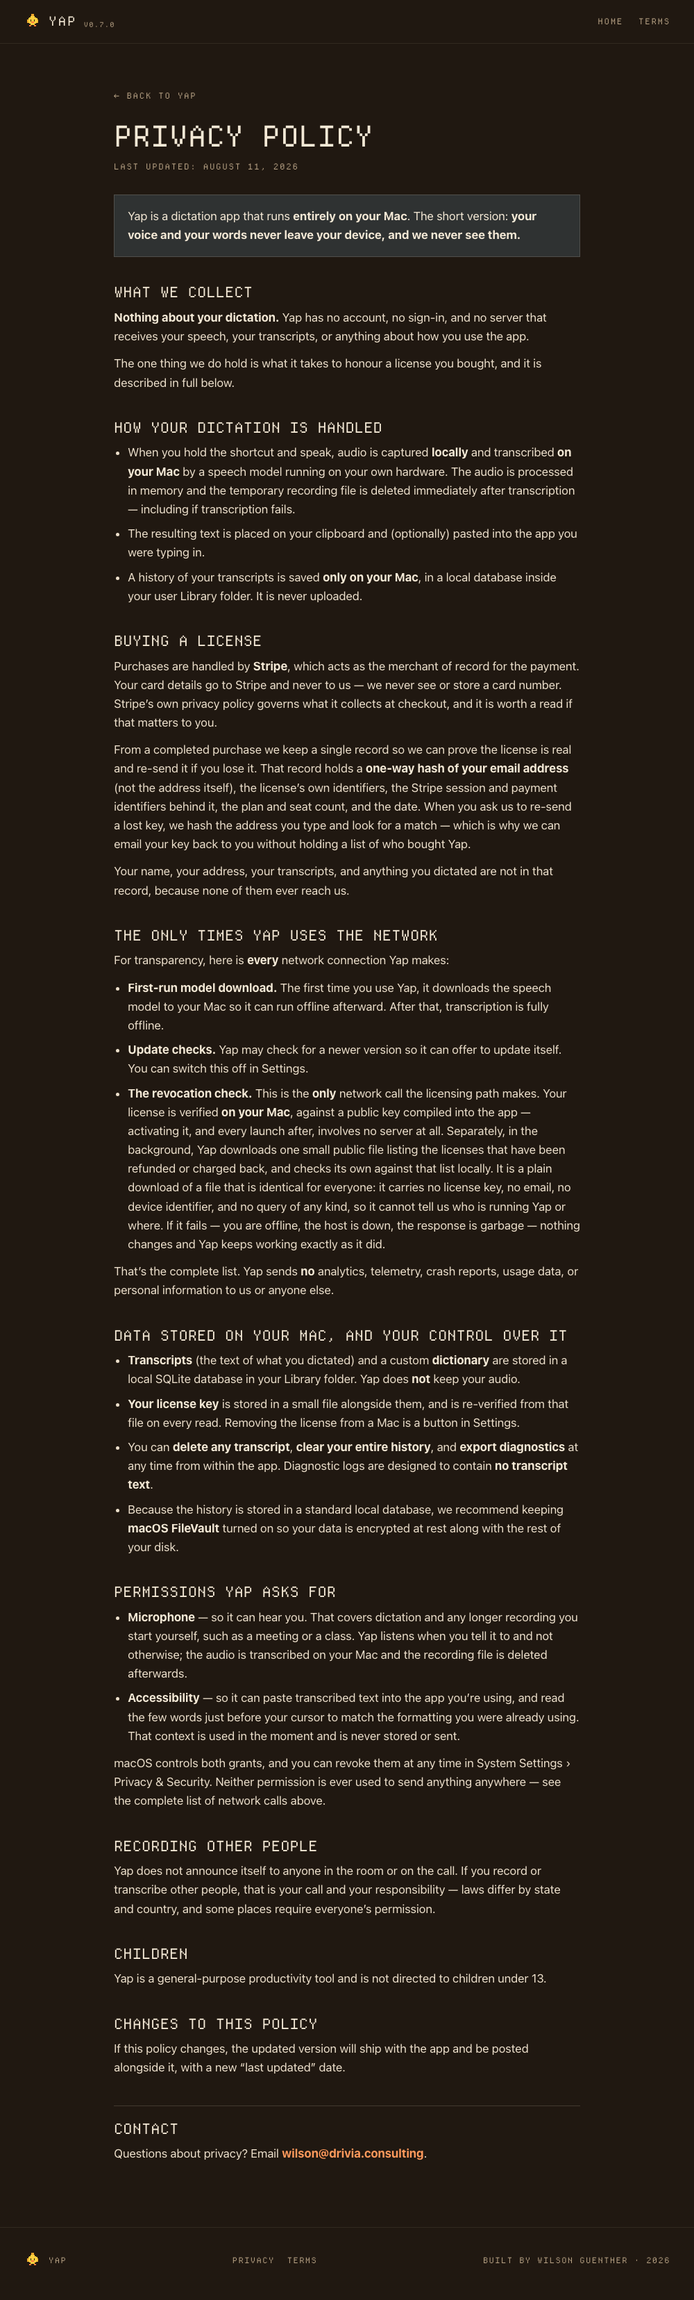
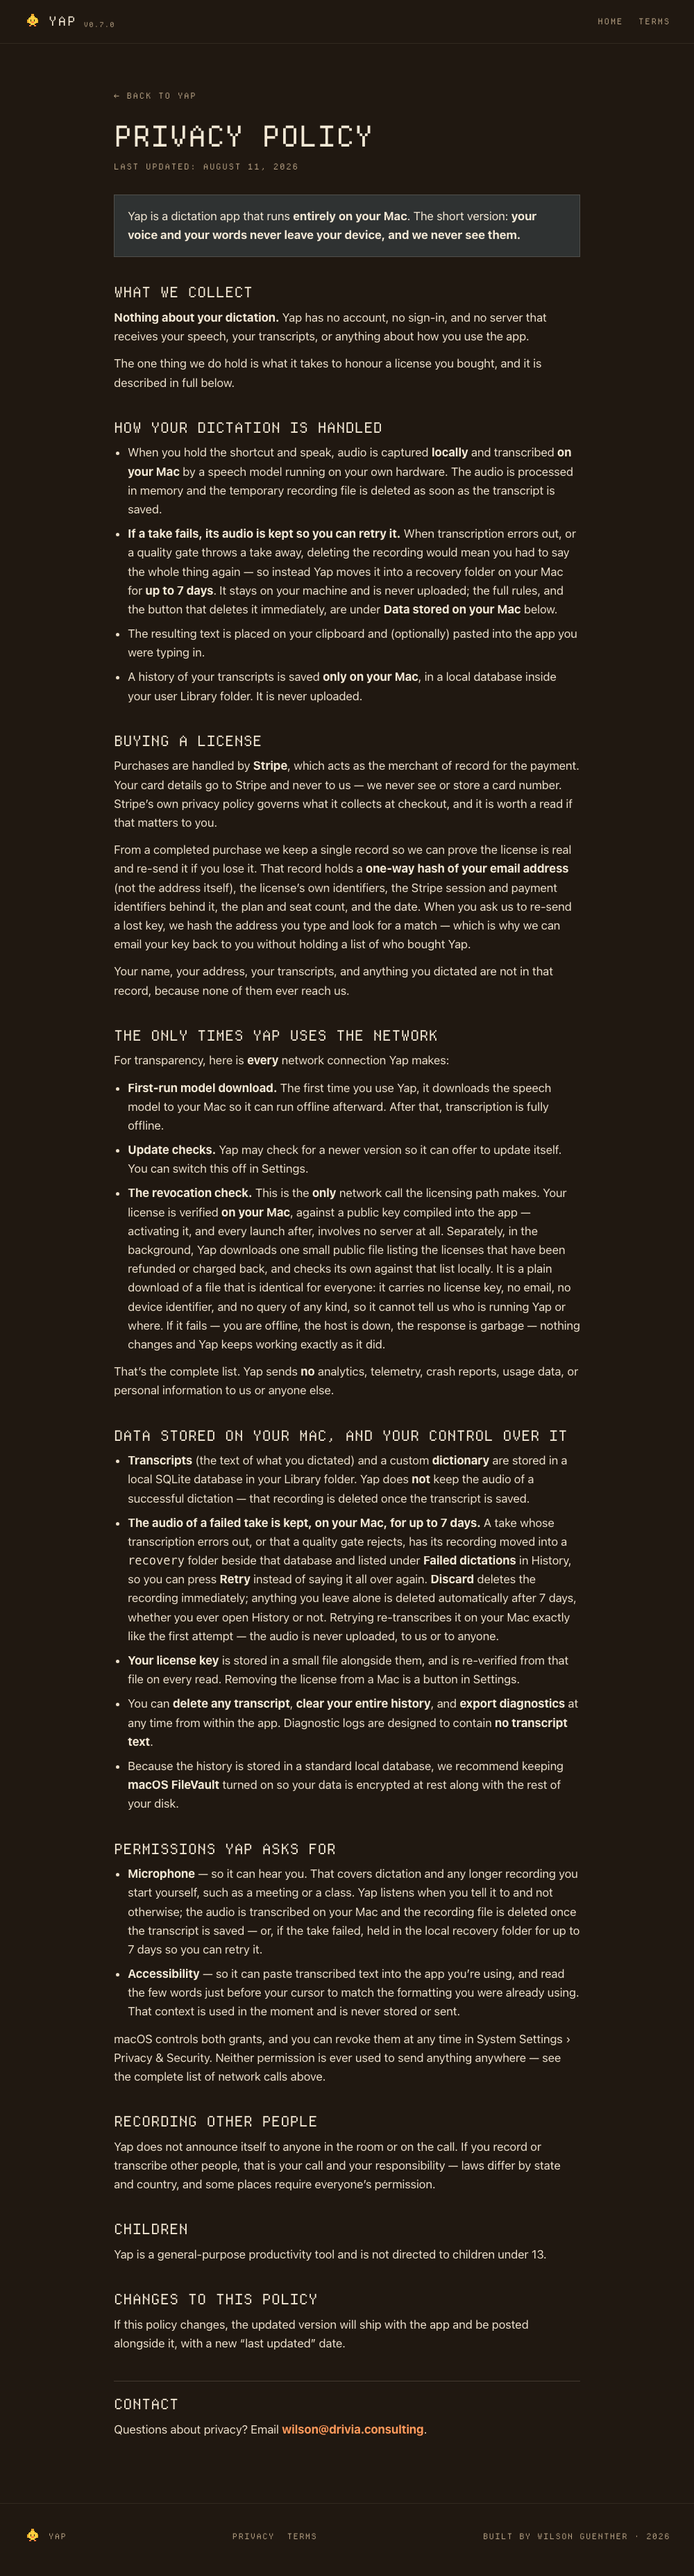
fix(yap): YP5 review — close the Apache grant on the paid code, and stop the privacy policy denying the recovery window
Two blocking findings from the YP5 review, both about a legal document
that now backs a product taking money.

1. The Apache carve-out was keyed to a version string the tree still
   claimed. TERMS said "every version up to and including 0.7.0 stays
   under Apache 2.0", while tauri.conf.json, Cargo.toml and package.json
   all still read 0.7.0 on a PUBLIC repo whose HEAD ships license.rs and
   the YP2/YP3 gate next to an untouched Apache LICENSE file. Anyone
   cloning HEAD received the payment gate under Apache 2.0, and the new
   TERMS text affirmatively confirmed that right to them — the exact
   grant this PR existed to remove.

   The in-repo version now reads 0.8.0 (tauri.conf.json, src-tauri and
   yap-polish Cargo.toml, package.json, Cargo.lock), so a clone can no
   longer self-identify as the last open-source release. The carve-out
   names the shipped ARTIFACT instead of a number: the v0.7.0 release
   (tag v0.7.0, commit 8c8740f) and every release before it, which
   git ls-tree confirms contained no license.rs. NOTICE and README now
   carry the same cut-off, so the Apache file is never met alone —
   README also stopped claiming MIT over an Apache LICENSE.

2. PRIVACY said, three times, that Yap never keeps audio. It does.
   YV52/YV67 keep_failed_take() MOVES the wav into data_dir()/recovery/
   whenever transcription fails or a gate rejects a take that had audio,
   and it survives for FAILED_TAKE_RETENTION_DAYS = 7. The feature is
[…]

Changed region(s): [[0.155, 0.0311, 0.837, 0.9644]]

diff --git a/site/dist/privacy.html b/site/dist/privacy.html
@@ -32,7 +32,8 @@
 
   <h2>How your dictation is handled</h2>
   <ul>
-    <li>When you hold the shortcut and speak, audio is captured <strong>locally</strong> and transcribed <strong>on your Mac</strong> by a speech model running on your own hardware. The audio is processed in memory and the temporary recording file is deleted immediately after transcription — including if transcription fails.</li>
+    <li>When you hold the shortcut and speak, audio is captured <strong>locally</strong> and transcribed <strong>on your Mac</strong> by a speech model running on your own hardware. The audio is processed in memory and the temporary recording file is deleted as soon as the transcript is saved.</li>
+    <li><strong>If a take fails, its audio is kept so you can retry it.</strong> When transcription errors out, or a quality gate throws a take away, deleting the recording would mean you had to say the whole thing again &mdash; so instead Yap moves it into a recovery folder on your Mac for <strong>up to 7 days</strong>. It stays on your machine and is never uploaded; the full rules, and the button that deletes it immediately, are under <strong>Data stored on your Mac</strong> below.</li>
     <li>The resulting text is placed on your clipboard and (optionally) pasted into the app you were typing in.</li>
     <li>A history of your transcripts is saved <strong>only on your Mac</strong>, in a local database inside your user Library folder. It is never uploaded.</li>
   </ul>
@@ -53,7 +54,8 @@
 
   <h2>Data stored on your Mac, and your control over it</h2>
   <ul>
-    <li><strong>Transcripts</strong> (the text of what you dictated) and a custom <strong>dictionary</strong> are stored in a local SQLite database in your Library folder. Yap does <strong>not</strong> keep your audio.</li>
+    <li><strong>Transcripts</strong> (the text of what you dictated) and a custom <strong>dictionary</strong> are stored in a local SQLite database in your Library folder. Yap does <strong>not</strong> keep the audio of a successful dictation &mdash; that recording is deleted once the transcript is saved.</li>
+    <li><strong>The audio of a failed take is kept, on your Mac, for up to 7 days.</strong> A take whose transcription errors out, or that a quality gate rejects, has its recording moved into a <code>recovery</code> folder beside that database and listed under <strong>Failed dictations</strong> in History, so you can press <strong>Retry</strong> instead of saying it all over again. <strong>Discard</strong> deletes the recording immediately; anything you leave alone is deleted automatically after 7 days, whether you ever open History or not. Retrying re-transcribes it on your Mac exactly like the first attempt &mdash; the audio is never uploaded, to us or to anyone.</li>
     <li><strong>Your license key</strong> is stored in a small file alongside them, and is re-verified from that file on every read. Removing the license from a Mac is a button in Settings.</li>
     <li>You can <strong>delete any transcript</strong>, <strong>clear your entire history</strong>, and <strong>export diagnostics</strong> at any time from within the app. Diagnostic logs are designed to contain <strong>no transcript text</strong>.</li>
     <li>Because the history is stored in a standard local database, we recommend keeping <strong>macOS FileVault</strong> turned on so your data is encrypted at rest along with the rest of your disk.</li>
@@ -61,7 +63,7 @@
 
   <h2>Permissions Yap asks for</h2>
   <ul>
-    <li><strong>Microphone</strong> — so it can hear you. That covers dictation and any longer recording you start yourself, such as a meeting or a class. Yap listens when you tell it to and not otherwise; the audio is transcribed on your Mac and the recording file is deleted afterwards.</li>
+    <li><strong>Microphone</strong> — so it can hear you. That covers dictation and any longer recording you start yourself, such as a meeting or a class. Yap listens when you tell it to and not otherwise; the audio is transcribed on your Mac and the recording file is deleted once the transcript is saved &mdash; or, if the take failed, held in the local recovery folder for up to 7 days so you can retry it.</li>
     <li><strong>Accessibility</strong> — so it can paste transcribed text into the app you&rsquo;re using, and read the few words just before your cursor to match the formatting you were already using. That context is used in the moment and is never stored or sent.</li>
   </ul>
   <p>macOS controls both grants, and you can revoke them at any time in System Settings › Privacy &amp; Security. Neither permission is ever used to send anything anywhere — see the complete list of network calls above.</p>

diff --git a/site/dist/terms.html b/site/dist/terms.html
@@ -39,8 +39,8 @@
   <p>If Yap is not for you, email us within <strong>fourteen days</strong> of your purchase and we will refund it. No questions, no form, no explaining yourself. Refunding a purchase ends the license it bought — the app returns to its unlicensed state on your Macs the next time it can reach the internet — but your transcripts and your history remain yours and untouched.</p>
 
   <h2>About the earlier open-source releases</h2>
-  <p>Yap was open source through <strong>version 0.7.0</strong>, released under the Apache License, Version 2.0. That does not get taken back: <strong>every version up to and including 0.7.0 stays under Apache 2.0 for everyone who received it</strong>, with all the rights that license grants, and the <code>LICENSE</code> file in the repository continues to cover exactly that code. Those rights are permanent and these terms do not shrink them.</p>
-  <p>Versions <strong>after 0.7.0</strong> are proprietary and are licensed to you under these terms rather than under Apache 2.0.</p>
+  <p>Yap was open source through the <strong>v0.7.0 release</strong>, published under the Apache License, Version 2.0. That does not get taken back: <strong>the v0.7.0 release &mdash; tag <code>v0.7.0</code>, commit <code>8c8740f</code> &mdash; and every release before it stay under Apache 2.0 for everyone who received them</strong>, with all the rights that license grants. Those rights are permanent and these terms do not shrink them.</p>
+  <p>Everything committed <strong>after that release</strong> is proprietary and is licensed to you under these terms rather than under Apache 2.0. The <code>LICENSE</code> file in the repository covers the code as it stood at that commit and nothing after it &mdash; in particular, the licensing, trial and payment code was written after v0.7.0, is not open source, and is not yours to copy or redistribute. The <code>NOTICE</code> file records the same cut-off, so a fresh clone is not misled by the Apache file sitting next to newer code.</p>
 
   <h2>Recording other people is your call</h2>
   <p>Yap can record meetings and classes on your Mac. Recording and transcribing other people is your call and your responsibility — laws differ by state and country, and some places require everyone&rsquo;s permission. Yap does not announce itself to anyone in the room or on the call.</p>

diff --git a/PRIVACY.md b/PRIVACY.md
@@ -12,7 +12,8 @@ The one thing we do hold is what it takes to honour a license you bought, and it
 
 ## How your dictation is handled
 
-- When you hold the shortcut and speak, audio is captured **locally** and transcribed **on your Mac** by a speech model running on your own hardware. The audio is processed in memory and the temporary recording file is deleted immediately after transcription — including if transcription fails.
+- When you hold the shortcut and speak, audio is captured **locally** and transcribed **on your Mac** by a speech model running on your own hardware. The audio is processed in memory and the temporary recording file is deleted as soon as the transcript is saved.
+- **If a take fails, its audio is kept so you can retry it.** When transcription errors out, or a quality gate throws a take away, deleting the recording would mean you had to say the whole thing again — so instead Yap moves it into a recovery folder on your Mac for **up to 7 days**. It stays on your machine and is never uploaded; the full rules, and the button that deletes it immediately, are under **Data stored on your Mac** below.
 - The resulting text is placed on your clipboard and (optionally) pasted into the app you were typing in.
 - A history of your transcripts is saved **only on your Mac**, in a local database inside your user Library folder. It is never uploaded.
 
@@ -36,14 +37,15 @@ That's the complete list. Yap sends **no** analytics, telemetry, crash reports, 
 
 ## Data stored on your Mac, and your control over it
 
-- **Transcripts** (the text of what you dictated) and a custom **dictionary** are stored in a local SQLite database in your Library folder. Yap does **not** keep your audio.
+- **Transcripts** (the text of what you dictated) and a custom **dictionary** are stored in a local SQLite database in your Library folder. Yap does **not** keep the audio of a successful dictation — that recording is deleted once the transcript is saved.
+- **The audio of a failed take is kept, on your Mac, for up to 7 days.** A take whose transcription errors out, or that a quality gate rejects, has its recording moved into a `recovery` folder beside that database and listed under **Failed dictations** in History, so you can press **Retry** instead of saying it all over again. **Discard** deletes the recording immediately; anything you leave alone is deleted automatically after 7 days, whether you ever open History or not. Retrying re-transcribes it on your Mac exactly like the first attempt — the audio is never uploaded, to us or to anyone.
 - **Your license key** is stored in a small file alongside them, and is re-verified from that file on every read. Removing the license from a Mac is a button in Settings.
 - You can **delete any transcript**, **clear your entire history**, and **export diagnostics** at any time from within the app. Diagnostic logs are designed to contain **no transcript text**.
 - Because the history is stored in a standard local database, we recommend keeping **macOS FileVault** turned on so your data is encrypted at rest along with the rest of your disk.
 
 ## Permissions Yap asks for
 
-- **Microphone** — so it can hear you. That covers dictation and any longer recording you start yourself, such as a meeting or a class. Yap listens when you tell it to and not otherwise; the audio is transcribed on your Mac and the recording file is deleted afterwards.
+- **Microphone** — so it can hear you. That covers dictation and any longer recording you start yourself, such as a meeting or a class. Yap listens when you tell it to and not otherwise; the audio is transcribed on your Mac and the recording file is deleted once the transcript is saved — or, if the take failed, held in the local recovery folder for up to 7 days so you can retry it.
 - **Accessibility** — so it can paste transcribed text into the app you're using, and read the few words just before your cursor to match the formatting you were already using. That context is used in the moment and is never stored or sent.
 
 macOS controls both grants, and you can revoke them at any time in System Settings › Privacy & Security. Neither permission is ever used to send anything anywhere — see the complete list of network calls above.

diff --git a/docs/CHANGELOG-YAP.md b/docs/CHANGELOG-YAP.md
@@ -8,7 +8,7 @@
 - **A refunded license stops working; nobody else's does.** Refunds and chargebacks revoke one specific license, never a batch, and a revoked license that is contested and won comes straight back.
 - **You can always see where you stand, and Yap only says it once.** A small chip in the header carries your trial or your license at all times, and it is the only place the countdown lives — there is exactly ONE message about the trial running out, three days before it does, and it never comes back. No daily countdown, no launch nag, no interstitial.
 - **Settings → License.** One screen with the state of this Mac, a Buy button that opens Stripe's own checkout in your browser, and a box to paste the key you already own. Bad keys get a sentence that tells you what to do next instead of the word "invalid", and "Remove from this Mac" moves a seat to another machine.
-- **The terms, the privacy policy and the price now say the same thing the app does.** The Terms of Use describe what $29 actually buys — personal use, three Macs, every future update, no renewal — alongside the fourteen-day trial, a no-questions fourteen-day refund, and a plain paragraph about recording other people, which is your call and your responsibility because Yap does not announce itself to anyone in the room. Releases up to and including 0.7.0 stay Apache-2.0 for everyone who received them; what comes after is proprietary, and the terms say so instead of implying otherwise. The privacy policy now covers the purchase too: Stripe handles the payment, we keep a one-way hash of your email and the license's own metadata, and the licensing path's single network call downloads a public refund list that carries no key, no email and no query.
+- **The terms, the privacy policy and the price now say the same thing the app does.** The Terms of Use describe what $29 actually buys — personal use, three Macs, every future update, no renewal — alongside the fourteen-day trial, a no-questions fourteen-day refund, and a plain paragraph about recording other people, which is your call and your responsibility because Yap does not announce itself to anyone in the room. The Apache-2.0 carve-out now names the **shipped release** rather than a version number the working tree still claimed — the v0.7.0 release (tag `v0.7.0`, commit `8c8740f`) and everything before it stay Apache-2.0 for everyone who received them, and every commit after it, licensing and payment code included, is proprietary. The in-repo version moved to **0.8.0** so a clone can no longer read as "this IS 0.7.0, so the Apache file covers it", and `NOTICE` and the README carry the same cut-off so the Apache file is never encountered alone. The privacy policy now covers the purchase too: Stripe handles the payment, we keep a one-way hash of your email and the license's own metadata, and the licensing path's single network call downloads a public refund list that carries no key, no email and no query. It also stops claiming Yap never keeps audio, because YV52 does: a take that fails or is rejected keeps its recording in a local recovery folder for up to 7 days so you can retry it, Discard deletes it on the spot, and the policy now says exactly that in all three places it used to say the opposite.
 - **The site has a price on it.** A pricing section states $29 once, yours forever, three Macs, refundable for fourteen days, with the founding $19 code described honestly — a real 500-person cap and no countdown timer, because there is no countdown. The "free and open source" line is gone from the page it outlived.
 - **The end of the trial is an offer, not a wall.** Pressing your hotkey after day 14 brings up a warm prompt with Yappy on it: buy, or paste a key. Dismiss it and the app behind it still works — your notes and history stay yours forever, and the prompt says so.
 

diff --git a/TERMS.md b/TERMS.md
@@ -24,9 +24,9 @@ If Yap is not for you, email us within **fourteen days** of your purchase and we
 
 ## About the earlier open-source releases
 
-Yap was open source through **version 0.7.0**, released under the Apache License, Version 2.0. That does not get taken back: **every version up to and including 0.7.0 stays under Apache 2.0 for everyone who received it**, with all the rights that license grants, and the `LICENSE` file in the repository continues to cover exactly that code. Those rights are permanent and these terms do not shrink them.
+Yap was open source through the **v0.7.0 release**, published under the Apache License, Version 2.0. That does not get taken back: **the v0.7.0 release — tag `v0.7.0`, commit `8c8740f` — and every release before it stay under Apache 2.0 for everyone who received them**, with all the rights that license grants. Those rights are permanent and these terms do not shrink them.
 
-Versions **after 0.7.0** are proprietary and are licensed to you under these terms rather than under Apache 2.0.
+Everything committed **after that release** is proprietary and is licensed to you under these terms rather than under Apache 2.0. The `LICENSE` file in the repository covers the code as it stood at that commit and nothing after it — in particular, the licensing, trial and payment code was written after v0.7.0, is not open source, and is not yours to copy or redistribute. The `NOTICE` file records the same cut-off, so a fresh clone is not misled by the Apache file sitting next to newer code.
 
 ## Recording other people is your call
 

diff --git a/README.md b/README.md
@@ -122,4 +122,13 @@ npm run sidecar     # cargo build -p yap-polish --release, staged under its trip
 
 ## License
 
-MIT — see [LICENSE](./LICENSE).
+Yap is a **paid, proprietary** app. It was open source through the **v0.7.0
+release** (tag `v0.7.0`, commit `8c8740f`): that release and every release
+before it stay under the Apache License 2.0 in [LICENSE](./LICENSE) for
+everyone who received them, permanently.
+
+Everything committed **after** that release — including the licensing, trial
+and payment code — is proprietary and is **not** covered by the `LICENSE` file.
+Cloning this repository does not grant you rights over it. See
+[NOTICE](./NOTICE) for the cut-off and [TERMS.md](./TERMS.md) for the terms
+that do apply.
